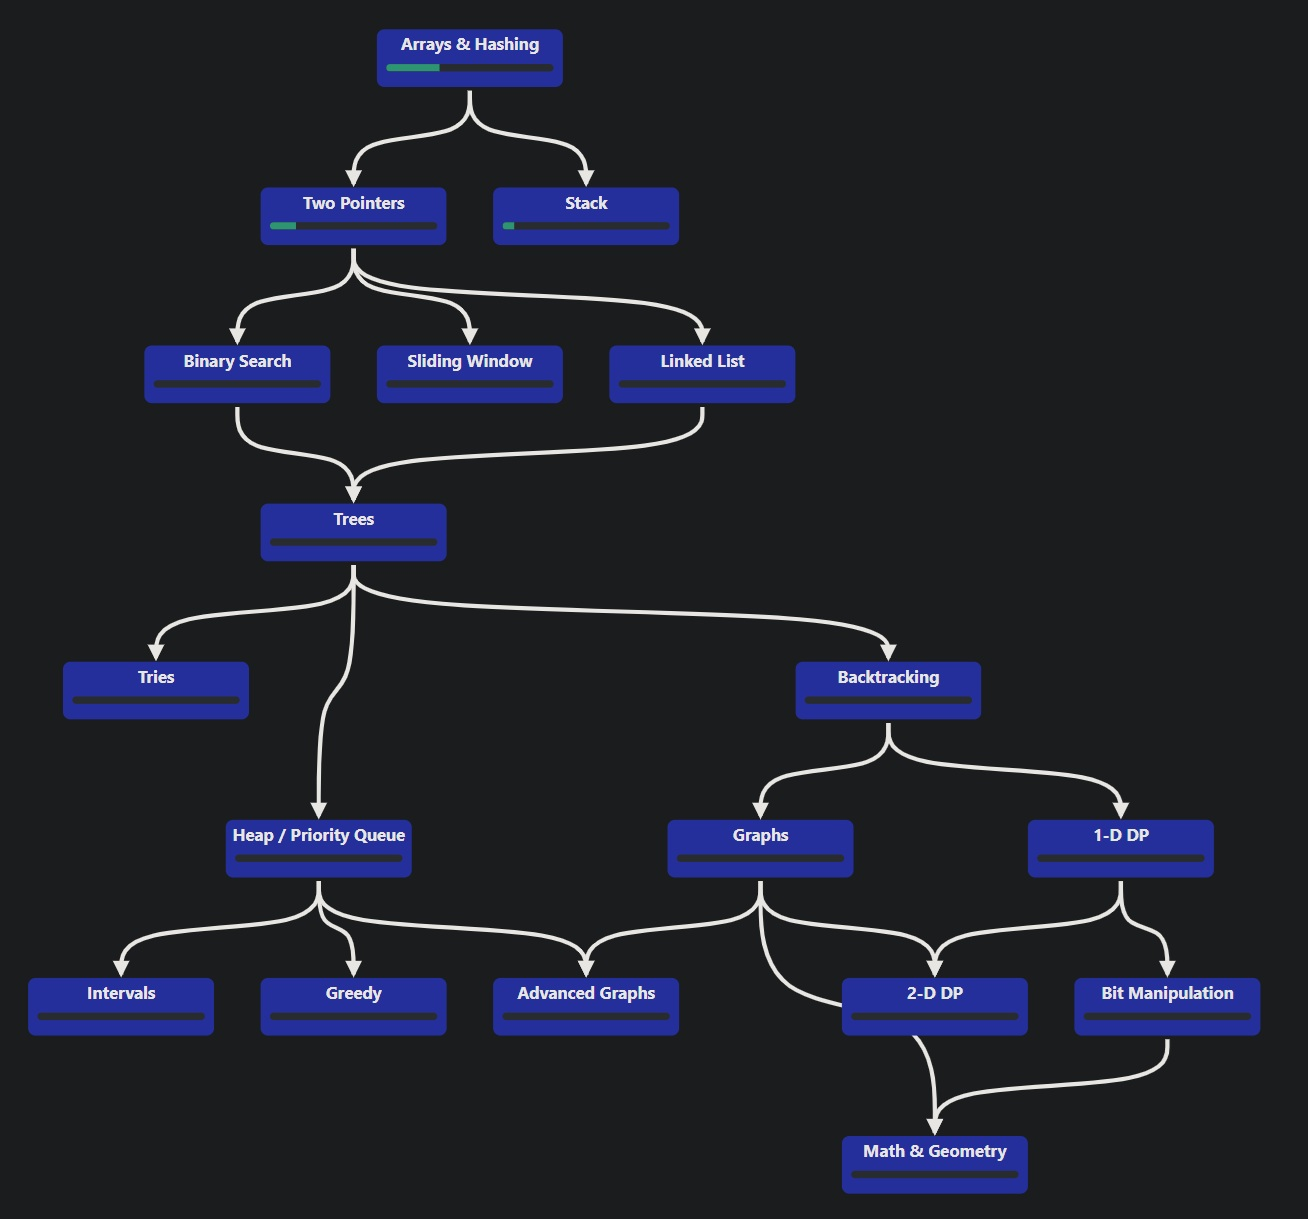
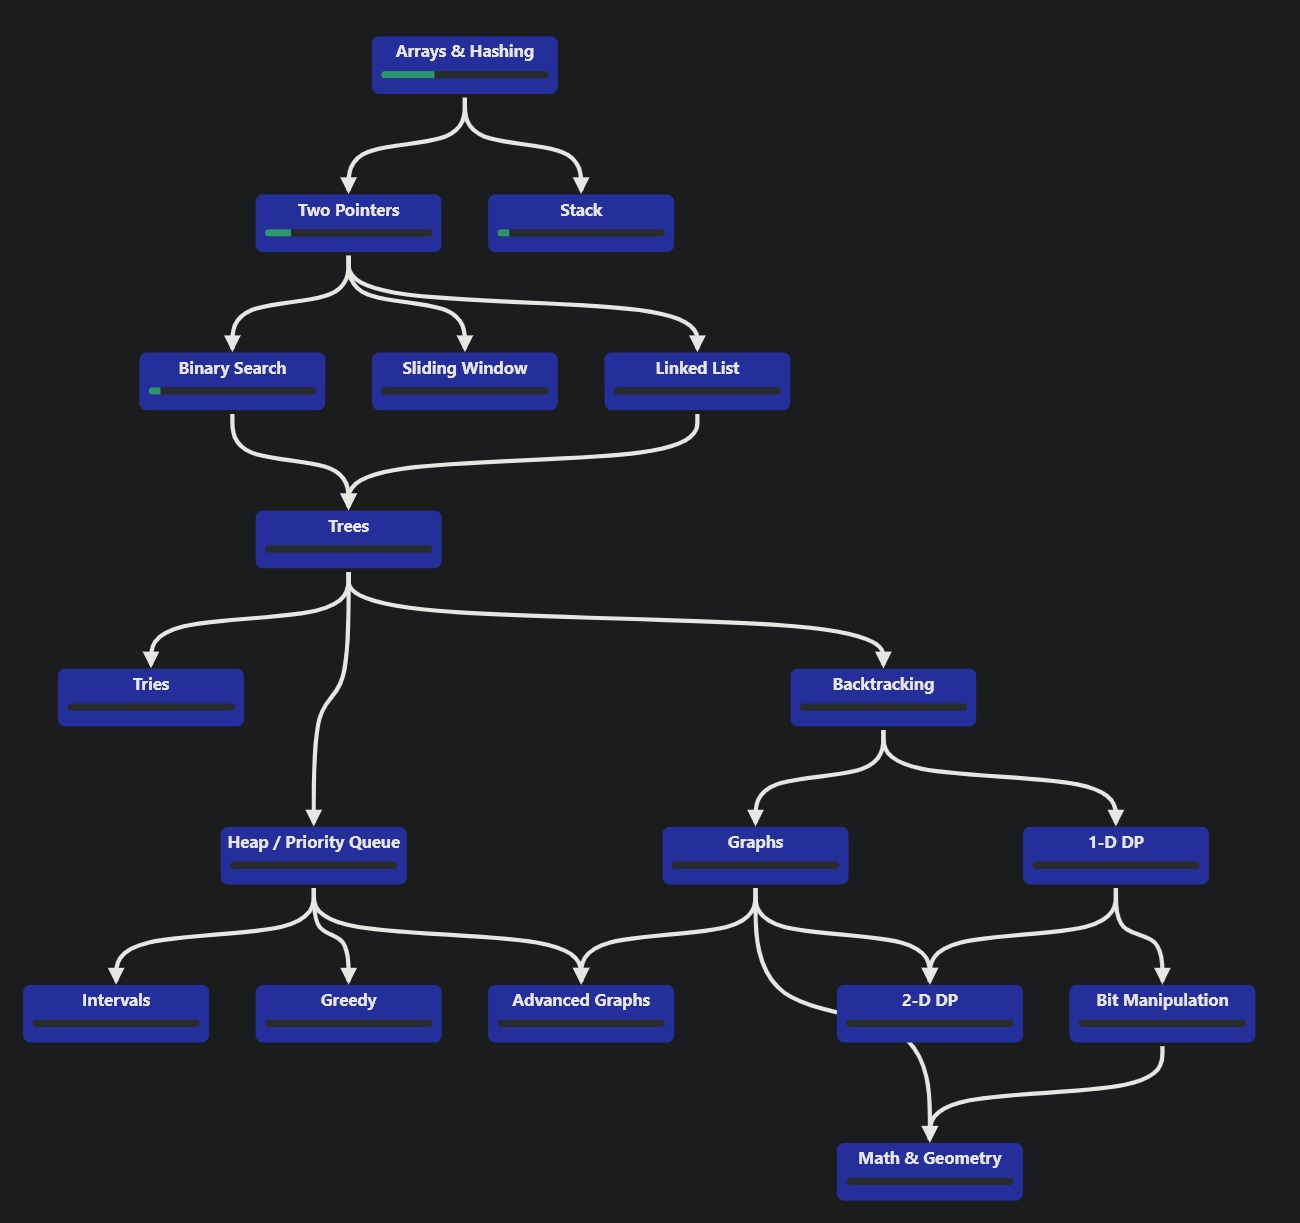
Add solutions

Changed region(s): [[0.0, 0.0, 0.9846, 0.9975]]

diff --git a/Binary-Search/Sqrt(x).py b/Binary-Search/Sqrt(x).py
@@ -1,0 +1,25 @@
+class Solution:
+    def mySqrt(self, x: int) -> int:
+        
+        # We know a boundary from 1 -> sqrt(x). We are looking
+        # for one value in this range, with a clear way of telling
+        # which end we need to go (at the midpoint, are we less or
+        # greater than our goal?). Simply use binary search
+
+        l = 1
+        r = x
+
+        # Wait for the pointers to cross. The last iteration will
+        # have l cross r, establishing the upper int bound. This
+        # means r will be the correct lower bound. 
+        while l <= r:
+            mid = int((r-l)/2) + l
+            mid2 = mid*mid
+
+            if mid2 == x: return mid
+
+            # Make sure mid is excluded as we tested it already
+            elif mid2 > x: r = mid -1
+            else: l = mid + 1
+        
+        return r
